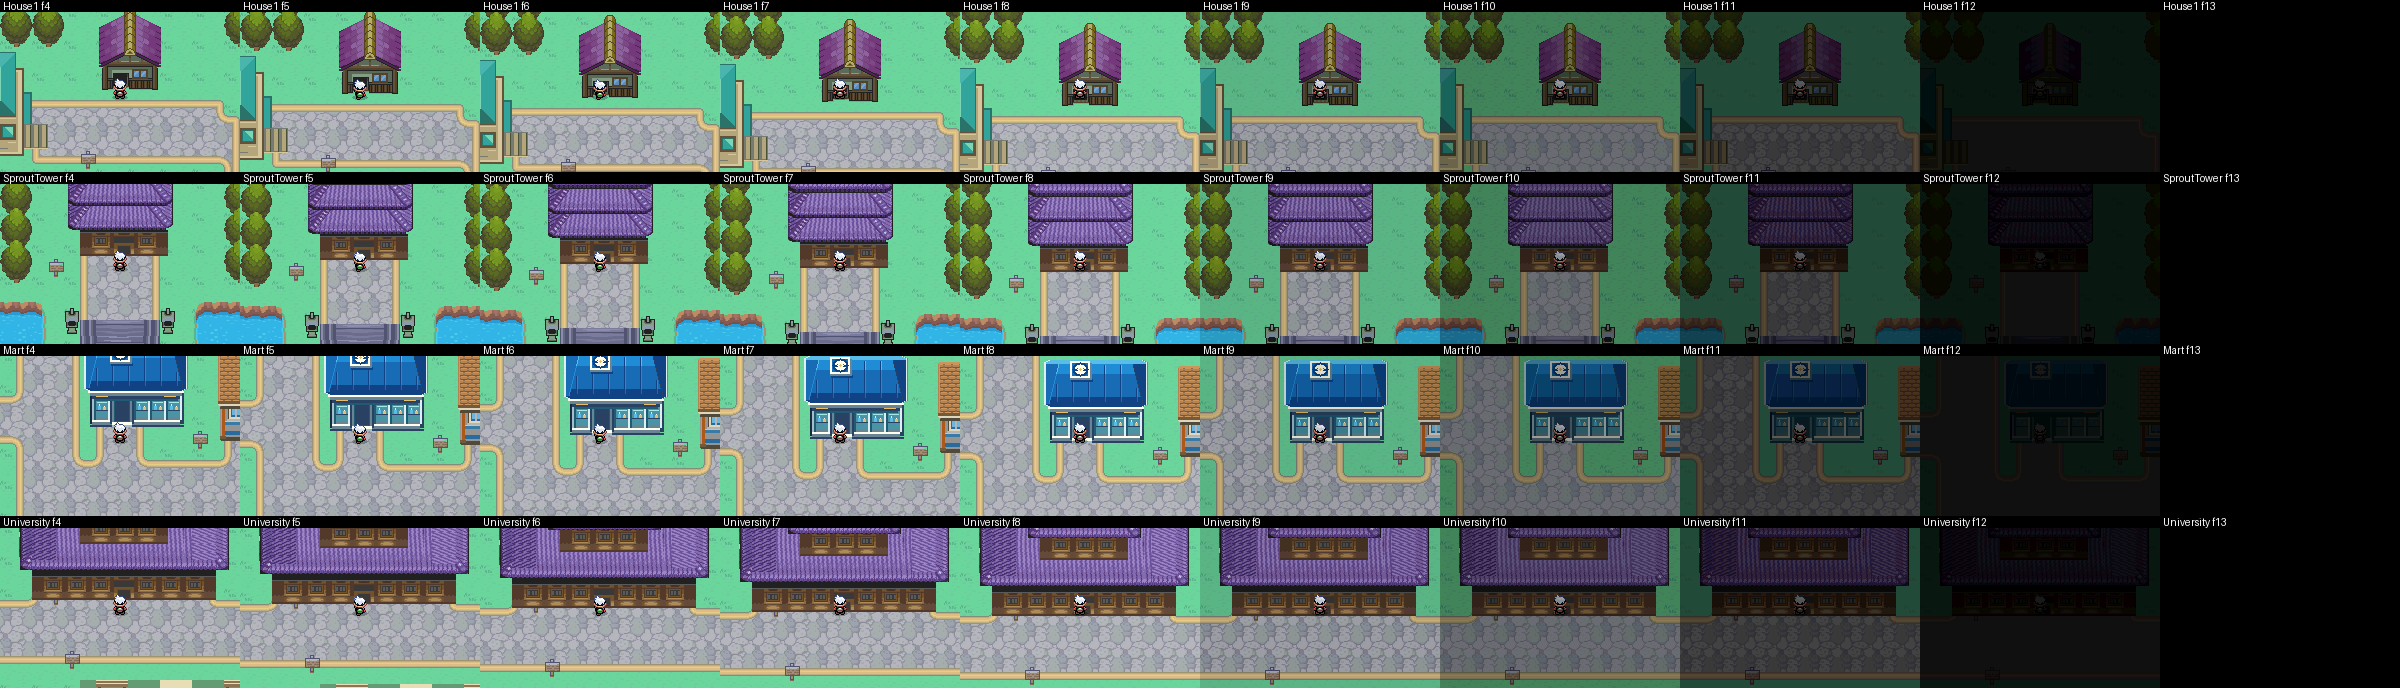
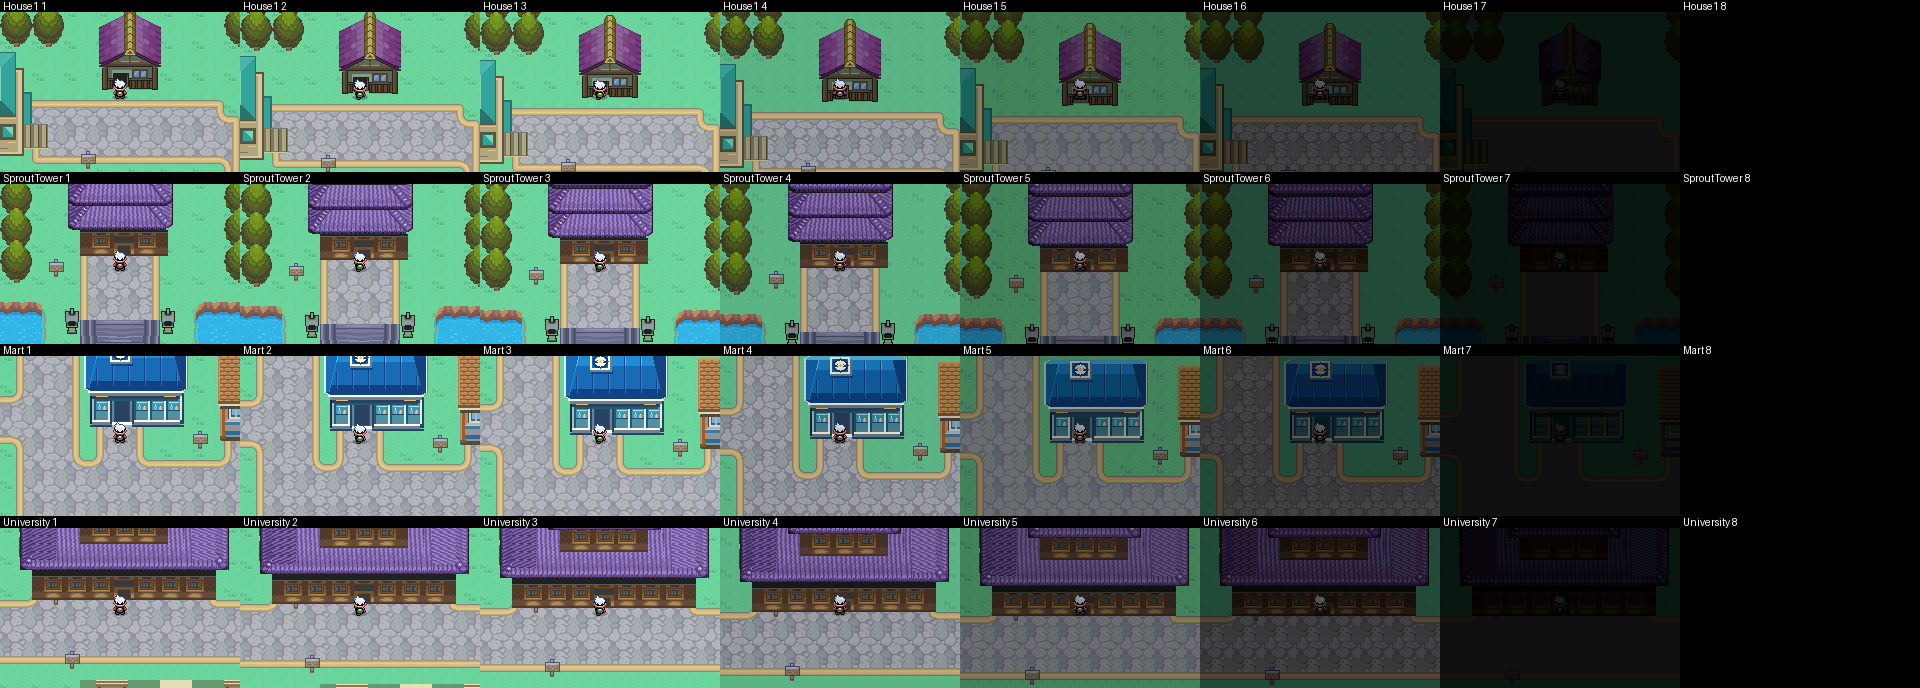
Violet doors: fade starts mid-step onto the door cell
Claude-Session: https://claude.ai/code/session_01WpofqtsxCVTcKt5HoaHtkk

diff --git a/gba/art/violet-city-review/README.md b/gba/art/violet-city-review/README.md
@@ -72,9 +72,10 @@ the animated-door behaviour and are walkable; everything else keeps its collisio
   opened a step early). A house's door cell is the one its door stands in, the cell below it (the house's
   base reaches 5 px into it) the walkable step up to it. Sprout Tower and the hall stand 8 px lower, their
   bases on the cell edge as Gen 3 buildings are; the Mart, Center and lecture hall already were (3-5 px).
-- Entering: the warp and fade start the moment the player lands on the door cell (owner's fix, November 1).
-  `Task_DoDoorWarp` in `src/field_screen_effect.c` no longer hides the player and waits for the door to
-  close first; the door stays open under the fade. This applies to every door in the game.
+- Entering: the fade starts halfway through the step onto the door cell and the warp follows the moment
+  the player stops (owner's fixes, November 1). `Task_DoDoorWarp` in `src/field_screen_effect.c` no longer
+  holds the player standing on the door, hides them, or waits for the door to close; the door stays open
+  under the fade. This applies to every door in the game.
 
 ![door entry: open, step on, fade](evidence/door-entry.png)
 

diff --git a/docs/AGENT_HANDOFF.md b/docs/AGENT_HANDOFF.md
@@ -67,7 +67,7 @@ Owner review (October 25), refined the same day:
   the `layered` door-table flag added to `src/field_door.c`) and lead into working shells (Center, Mart,
   university, lecture hall, five houses, a Sprout Tower stand-in room). 11 tiles free. Door cells sit where the player
   stands against the building (house doors one row up from their first cut, Sprout Tower and the hall 8 px lower).
-  Entering a door warps and fades as soon as the player lands on the door cell (engine `Task_DoDoorWarp`, all maps).
+  Entering a door: the fade starts halfway through the step onto the door cell, the warp as the player stops (engine `Task_DoDoorWarp`, all maps).
 - West of HGSS's west wall the padding stands at the wall's top, so the wall has one face and the north
   rock no longer turns a corner.
 - The south road keeps the painter's wavy edge down to Cherrygrove's band.
